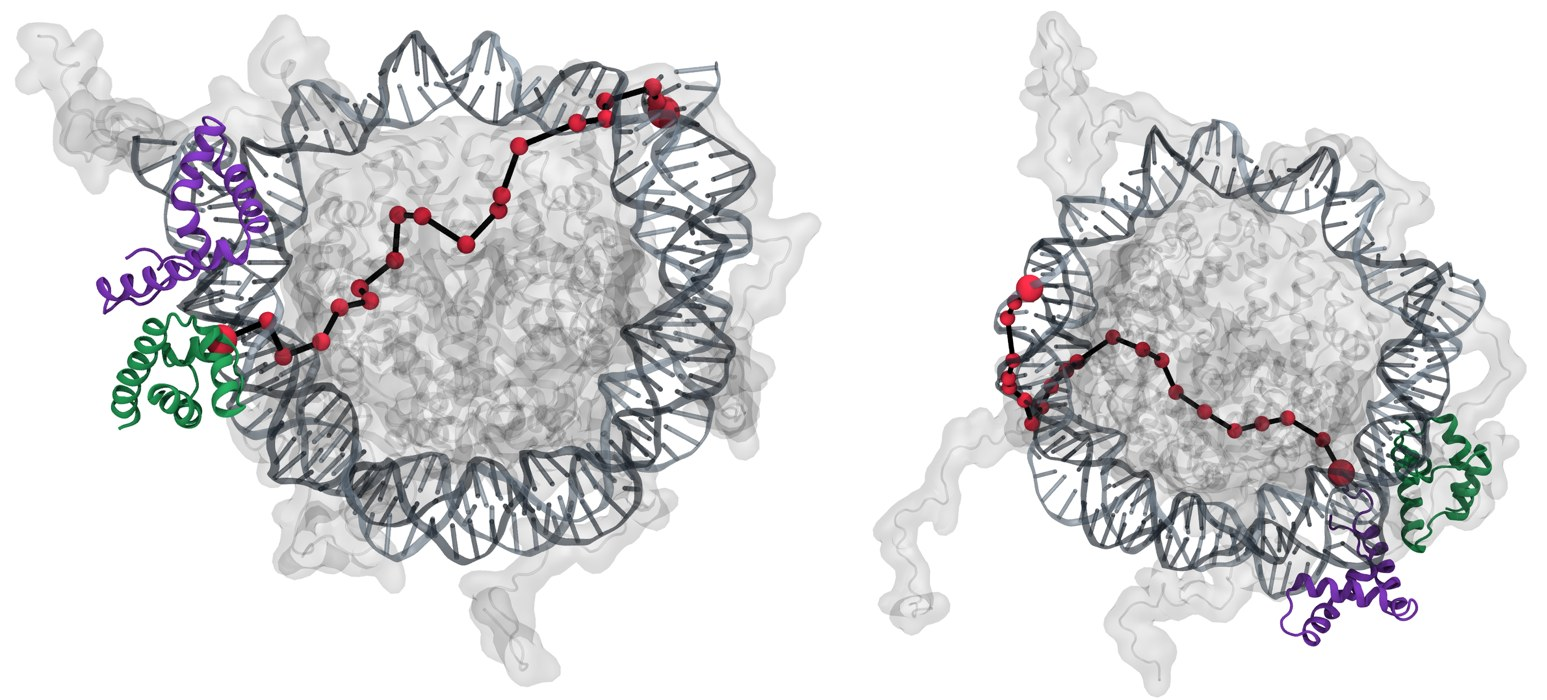
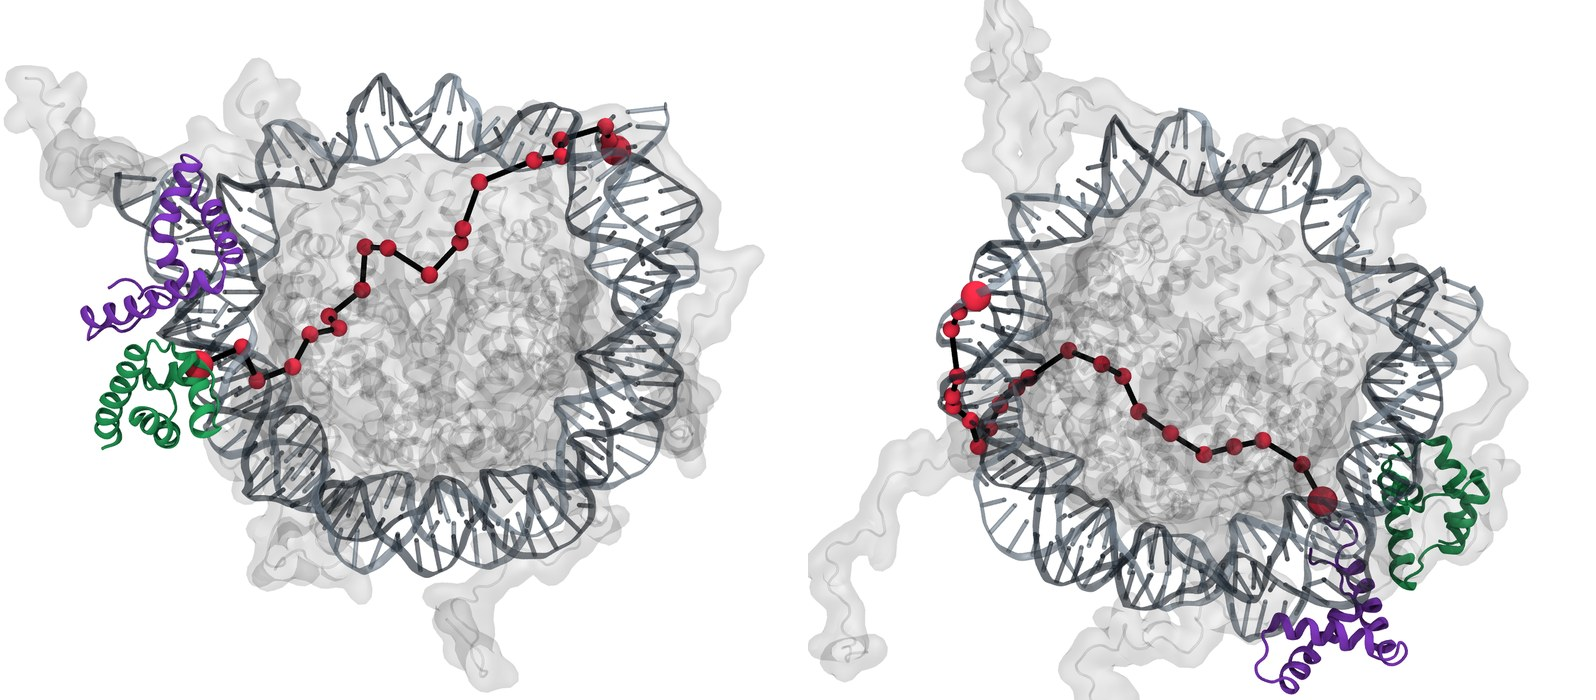
Equalize homepage panel sizes

diff --git a/index.html b/index.html
@@ -216,7 +216,7 @@ footer{border-top:1px solid var(--rule);margin-top:40px}
   <p class="lede">Computational biophysics of chromatin and soft biological matter at the <a href="https://www.csi.cuny.edu/" target="_blank" rel="noopener">College of Staten Island</a> and the <a href="https://www.gc.cuny.edu/" target="_blank" rel="noopener">CUNY Graduate Center</a>.</p>
 
   <figure>
-    <img class="hero" src="homepage-nucleosome.jpg" width="1547" height="700" alt="Two views of a nucleosome bound by transcription factors, with a path of red spheres tracing communication through the DNA and histones">
+    <img class="hero" src="homepage-nucleosome.jpg" width="1597" height="700" alt="Two views of a nucleosome bound by transcription factors, with a path of red spheres tracing communication through the DNA and histones">
     <figcaption>How does information transfer through a complex? Two views of nucleosome&ndash;transcription factor complexes, with communication routes traced through the structure from all-atom simulations with <a href="https://github.com/CUNY-CSI-Loverde-Laboratory/conditional_activity" target="_blank" rel="noopener">CONDACT</a> (<a href="https://github.com/CUNY-CSI-Loverde-Laboratory/conditional_activity" target="_blank" rel="noopener">code and documentation</a>).</figcaption>
   </figure>
 
